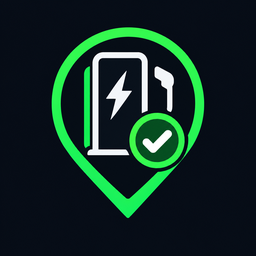
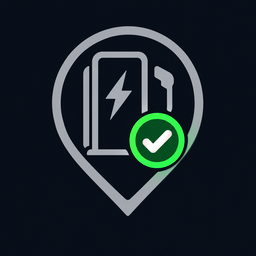
v0.5.5
## 0.5.5
- Kaartmarkers: nieuwe set van 4 (`station_available_2` = 2 of meer vrij, `station_available` = 1 vrij, `station_unavailable`, `station_unknown`); de marker *gedeeltelijk* is verwijderd.

## 0.5.4
- Alleen versienummer: de wijzigingen van 0.5.3 (import, `location_name`, apparaten opruimen) zijn in deze versie definitief verwerkt, zodat HACS ze als update herkent.

Changed region(s): [[0.1875, 0.0938, 0.8125, 0.8438], [0.6562, 0.5, 0.6875, 0.5312]]

diff --git a/tests/test_integration.py b/tests/test_integration.py
@@ -195,8 +195,8 @@ async def test_map_picture_follows_availability(hass: HomeAssistant, aioclient_m
     await setup(hass, entry())
     ent = eid(hass, "device_tracker", "location")
     base = "/enbw_laadpalen/static/"
-    assert hass.states.get(ent).attributes["entity_picture"] == base + "station_available.png"
-    for points, expected in (([free_a, busy], "station_partial.png"), ([busy], "station_unavailable.png")):
+    assert hass.states.get(ent).attributes["entity_picture"] == base + "station_available_2.png"
+    for points, expected in (([free_a, busy], "station_available.png"), ([busy], "station_unavailable.png")):
         aioclient_mock.clear_requests()
         aioclient_mock.get(DETAIL_URL, json={**DETAIL, "chargePoints": points})
         await hass.services.async_call("button", "press", {"entity_id": eid(hass, "button", "refresh")}, blocking=True)
@@ -212,7 +212,8 @@ def test_brand_and_static_files_exist():
         "brand/icon@2x.png",
         "brand/logo.png",
         "static/station_available.png",
-        "static/station_partial.png",
+        "static/station_available_2.png",
+        "static/station_unknown.png",
         "static/station_unavailable.png",
     ):
         assert (base / f).is_file(), f
@@ -769,13 +770,13 @@ async def test_tracker_state_shows_availability(hass: HomeAssistant, aioclient_m
     aioclient_mock.get(DETAIL_URL, json=DETAIL)
     await setup(hass, entry())
     state = hass.states.get(eid(hass, "device_tracker", "location"))
-    assert state.state == "2/4 beschikbaar"  # same text as the 'Laadpunten' sensor, not 'not_home'
+    assert state.attributes["status"] == "2/4 beschikbaar"  # location_name is deprecated; the text is an attribute
     assert state.attributes["visual"] == "🅿/⛔/🅿/⚫" and state.attributes["available"] == 2
     assert state.attributes["latitude"] == 52.37  # still a working map marker
     aioclient_mock.clear_requests()
     aioclient_mock.get(DETAIL_URL, status=500)
     await hass.services.async_call("button", "press", {"entity_id": eid(hass, "button", "refresh")}, blocking=True)
-    assert hass.states.get(eid(hass, "device_tracker", "location")).state == "Onbekend"
+    assert hass.states.get(eid(hass, "device_tracker", "location")).attributes["status"] == "Onbekend"
 
 
 async def test_backoff_does_not_clash_with_coordinator_base_class(hass: HomeAssistant, aioclient_mock):

diff --git a/custom_components/enbw_laadpalen/device_tracker.py b/custom_components/enbw_laadpalen/device_tracker.py
@@ -8,7 +8,7 @@ from homeassistant.components.device_tracker import SourceType, TrackerEntity
 from homeassistant.core import HomeAssistant
 from homeassistant.helpers.entity_platform import AddEntitiesCallback
 
-from .const import PICTURE_AVAILABLE, PICTURE_PARTIAL, PICTURE_UNAVAILABLE, PICTURE_UNKNOWN
+from .const import PICTURE_AVAILABLE, PICTURE_AVAILABLE_2, PICTURE_UNAVAILABLE, PICTURE_UNKNOWN
 from .coordinator import EnbwConfigEntry
 from .parser import picture_kind, street_and_number, summarize, visual_state
 from .sensor import EnbwEntity
@@ -39,22 +39,14 @@ class StationLocation(EnbwEntity, TrackerEntity):
         return self.coordinator.location is not None
 
     @property
-    def location_name(self) -> str:
-        """State of the tracker: the same text as the 'Laadpunten' sensor, e.g. '2/4 beschikbaar'.
-
-        Without this a GPS tracker shows its zone name ('not_home') in the more-info dialog.
-        """
-        c = self.coordinator
-        return summarize(c.fresh_view)
-
-    @property
     def extra_state_attributes(self) -> dict[str, Any]:
         """Details shown in the attributes of the more-info dialog (not stored in the recorder)."""
         c = self.coordinator
         v = c.fresh_view
         if not v:
-            return {}
+            return {"status": summarize(None)}
         return {
+            "status": summarize(v),  # e.g. '2/4 beschikbaar'
             "available": v["free"],
             "total": v["total"],
             "visual": visual_state(v),
@@ -70,7 +62,7 @@ class StationLocation(EnbwEntity, TrackerEntity):
         """Green check = all charge points available, check + cross = some, red cross = none."""
         c = self.coordinator
         kind = picture_kind(c.view if c.last_update_success else None, c.is_stale)
-        return {"available": PICTURE_AVAILABLE, "partial": PICTURE_PARTIAL, "unknown": PICTURE_UNKNOWN}.get(
+        return {"available": PICTURE_AVAILABLE, "available_2": PICTURE_AVAILABLE_2, "unknown": PICTURE_UNKNOWN}.get(
             kind, PICTURE_UNAVAILABLE
         )
 

diff --git a/custom_components/enbw_laadpalen/__init__.py b/custom_components/enbw_laadpalen/__init__.py
@@ -15,7 +15,7 @@ from homeassistant.helpers import entity_registry as er
 from homeassistant.helpers import issue_registry as ir
 from homeassistant.helpers.aiohttp_client import async_get_clientsession
 from homeassistant.helpers.event import async_track_time_interval
-from homeassistant.helpers.service import async_extract_referenced_entity_ids
+from homeassistant.helpers.target import TargetSelection, async_extract_referenced_entity_ids
 from homeassistant.helpers.typing import ConfigType
 
 from .api import EnbwApi
@@ -51,7 +51,7 @@ async def async_setup(hass: HomeAssistant, config: ConfigType) -> bool:
         coordinators: dict[str, StationCoordinator] = {}
         for entry in hass.config_entries.async_loaded_entries(DOMAIN):
             coordinators.update(entry.runtime_data.coordinators)
-        selected = async_extract_referenced_entity_ids(hass, call)
+        selected = async_extract_referenced_entity_ids(hass, TargetSelection(call.data))
         if selected.referenced or selected.indirectly_referenced or selected.referenced_devices:
             dev_reg = dr.async_get(hass)
             ent_reg = er.async_get(hass)
@@ -130,7 +130,7 @@ async def async_setup_entry(hass: HomeAssistant, entry: EnbwConfigEntry) -> bool
     for device in dr.async_entries_for_config_entry(dev_reg, entry.entry_id):
         ids = {i[1] for i in device.identifiers if i[0] == DOMAIN}
         if ids and not ids & current:
-            dev_reg.async_update_device(device.id, remove_config_entry_id=entry.entry_id)
+            dev_reg.async_remove_device(device.id)  # a device belongs to a single config entry
 
     ent_reg = er.async_get(hass)
     # Renamed entity: keep the existing sensor (and its history) under the new unique id

diff --git a/tests/test_parser.py b/tests/test_parser.py
@@ -90,9 +90,10 @@ def test_visual_icons_per_point():
 def test_picture_kind():
     assert (
         picture_kind(build_view({**DETAIL, "chargePoints": [DETAIL["chargePoints"][0], DETAIL["chargePoints"][2]]}))
-        == "available"
+        == "available_2"
     )
-    assert picture_kind(build_view(DETAIL)) == "partial"
+    assert picture_kind(build_view(DETAIL)) == "available_2"  # 2 of 4 free
+    assert picture_kind(build_view({**DETAIL, "chargePoints": DETAIL["chargePoints"][:2]})) == "available"  # 1 free
     assert picture_kind(build_view({**DETAIL, "chargePoints": [DETAIL["chargePoints"][1]]})) == "unavailable"
     assert picture_kind(build_view({**DETAIL, "openingTimes": {"nextOpeningTime": "x"}})) == "unavailable"
     assert picture_kind(None) == "unknown"
@@ -126,7 +127,7 @@ def test_picture_kind_unknown_when_stale():
     from custom_components.enbw_laadpalen.parser import picture_kind
 
     view = {"total": 2, "free": 2, "open": True}
-    assert picture_kind(view) == "available"
+    assert picture_kind(view) == "available_2"
     assert picture_kind(view, stale=True) == "unknown"
 
 

diff --git a/custom_components/enbw_laadpalen/const.py b/custom_components/enbw_laadpalen/const.py
@@ -50,8 +50,8 @@ MIN_QUERY_RADIUS_M = 500  # the API is always queried at least this widely
 API_BASE = "https://api.emp.emob-enbw.com/emobility-public-api/api/v1"
 API_ORIGIN = "https://www.enbw.com"
 STATIC_URL = "/enbw_laadpalen/static"  # map pictures of the station
-PICTURE_AVAILABLE = f"{STATIC_URL}/station_available.png"  # all charge points available
-PICTURE_PARTIAL = f"{STATIC_URL}/station_partial.png"  # some available
+PICTURE_AVAILABLE = f"{STATIC_URL}/station_available.png"  # 1 charge point available
+PICTURE_AVAILABLE_2 = f"{STATIC_URL}/station_available_2.png"  # 2 or more available
 PICTURE_UNAVAILABLE = f"{STATIC_URL}/station_unavailable.png"
 PICTURE_UNKNOWN = f"{STATIC_URL}/station_unknown.png"  # no or outdated data
 SERVICE_REFRESH = "refresh"

diff --git a/custom_components/enbw_laadpalen/parser.py b/custom_components/enbw_laadpalen/parser.py
@@ -191,12 +191,12 @@ def visual_state(view: dict[str, Any] | None) -> str:
 
 
 def picture_kind(view: dict[str, Any] | None, stale: bool = False) -> str:
-    """'available' (all free), 'partial' (some free), 'unavailable' (none free) or 'unknown' (no/old data)."""
+    """'available_2' (2+ free), 'available' (1 free), 'unavailable' (none free/closed) or 'unknown' (no/old data)."""
     if stale or not view:
         return "unknown"
     if not view or not view["total"] or view["open"] is False or view["free"] <= 0:
         return "unavailable"
-    return "available" if view["free"] >= view["total"] else "partial"
+    return "available_2" if view["free"] >= 2 else "available"
 
 
 # EnBW sends German day abbreviations; we show Dutch ones.

diff --git a/CHANGELOG.md b/CHANGELOG.md
@@ -1,7 +1,16 @@
 # Changelog
 
+## 0.5.5
+- Kaartmarkers: nieuwe set van 4 (`station_available_2` = 2 of meer vrij, `station_available` = 1 vrij, `station_unavailable`, `station_unknown`); de marker *gedeeltelijk* is verwijderd.
+
+## 0.5.4
+- Alleen versienummer: de wijzigingen van 0.5.3 (import, `location_name`, apparaten opruimen) zijn in deze versie definitief verwerkt, zodat HACS ze als update herkent.
+
 ## 0.5.3
-- Waarschuwing *Detected blocking call to import_module* opgelost: de integratie wordt nu in de executor geïmporteerd (`import_executor` in het manifest).
+- *Laadpaal op kaart*: de verouderde `location_name` is verwijderd (wordt vanaf HA 2027.7 niet meer ondersteund). De tekst `2/4 beschikbaar` staat nu in het attribuut `status`; de status van de tracker is de zone-status van HA (coördinaten blijven altijd gerapporteerd). Gebruik voor `2/4 beschikbaar` als status de sensor *Laadpunten*.
+- Opruimen van verwijderde laadpalen gebruikt `async_remove_device` in plaats van het verouderde `remove_config_entry_id`.
+- **Bugfix:** de integratie kon niet starten (`cannot import name 'async_extract_referenced_entity_ids'`) op nieuwere Home Assistant-versies; de doelkiezer gebruikt nu `homeassistant.helpers.target`. Minimale HA-versie: 2026.2.0.
+- Waarschuwing *Detected blocking call to import_module*: de integratie wordt nu in de executor geïmporteerd (`import_executor` in het manifest); de waarschuwing in het log kwam voort uit de mislukte import hierboven.
 
 ## 0.5.2
 - *Maximaal vermogen*, *Afstand tot persoon* en *Connectortypen* zijn diagnose-entiteiten; *Connectortypen* staat voor nieuwe installaties standaard uit.

diff --git a/README.md b/README.md
@@ -28,7 +28,7 @@ Via *Configureren* voeg je laadpalen toe, bewerk of verwijder je ze en pas je de
 | **Beschikbaarheid visueel** | één icoon per laadpunt, bijv. `🅿/⛔` (🅿 beschikbaar, ⛔ bezet of gesloten, ⚫ storing, onbekend of verouderd) |
 | **Beschikbaar** | binary_sensor: minstens één laadpunt beschikbaar |
 | **Laadpunt 1 - 17kW**, … | binary_sensor per laadpunt: *Bezet*, *Vrij* of *Onbekend* |
-| **Laadpaal op kaart** | device_tracker, genoemd naar straat en huisnummer, met de status van *Laadpunten* en een marker: groen = alles beschikbaar, gedeeltelijk, rood = niets beschikbaar, grijs vraagteken = onbekend of verouderd |
+| **Laadpaal op kaart** | device_tracker, genoemd naar straat en huisnummer, attribuut `status` = `2/4 beschikbaar`, met een marker: twee vinkjes = 2 of meer laadpunten vrij, één vinkje = 1 vrij, rood kruis = niets vrij of gesloten, grijs vraagteken = onbekend of verouderd |
 | **Personen nabij**, **Zone radius** | personen binnen de zone |
 | **Vernieuwen**, **Vernieuwingsfrequentie** | knop en keuzelijst (standaard *Nooit*) |
 | **Vernieuwen in zone**, **Alleen vernieuwen bij naderen**, **Vernieuwingsfrequentie in zone**, **Vernieuwen in zone stoppen na** | zie *Verversen in de zone* |
